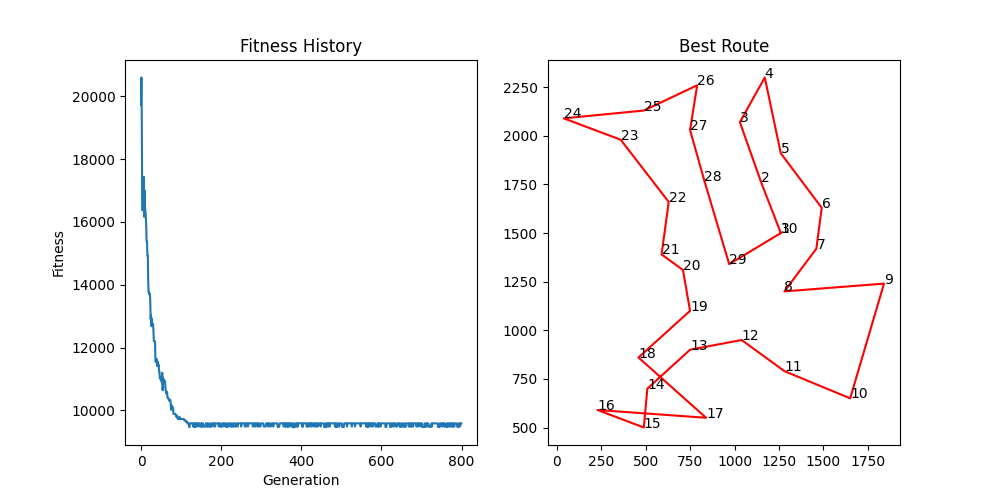
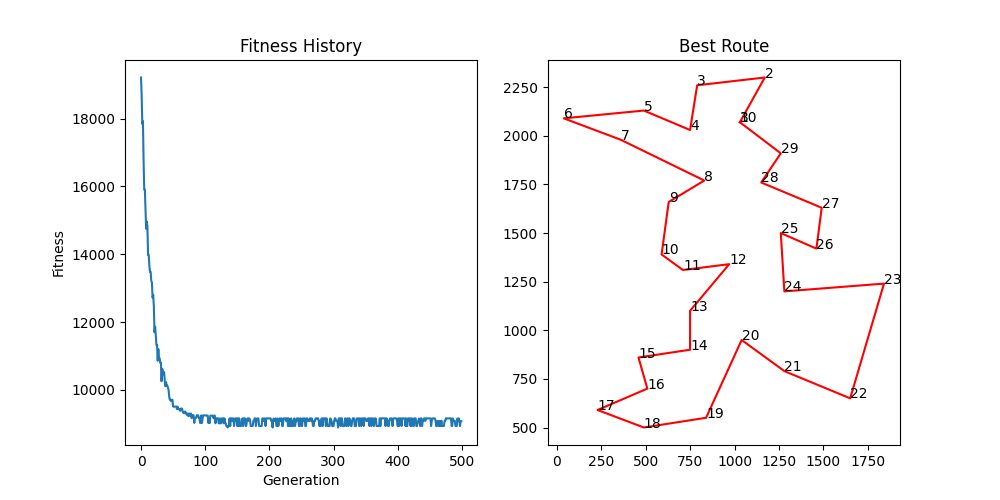
Final Commit

diff --git a/tsp.py b/tsp.py
@@ -26,18 +26,32 @@ def crossover(parent1, parent2, method):
     if method == 1:
         child1 = parent1[:crossover_point] + [city for city in parent2 if city not in parent1[:crossover_point]]
         child2 = parent2[:crossover_point] + [city for city in parent1 if city not in parent2[:crossover_point]]
-    else:
-        # Alternative crossover method
-        crossover_point = len(parent1) // 2
-        child1 = parent1[:crossover_point] + [city for city in parent2 if city not in parent1[:crossover_point]]
-        child2 = parent2[:crossover_point] + [city for city in parent1 if city not in parent2[:crossover_point]]
+        
+        # Ensure the route is cyclic
+        child1.append(child1[0])
+        child2.append(child2[0])
     
-    # Ensure the route is cyclic
-    child1.append(child1[0])
-    child2.append(child2[0])
-    
-    return child1, child2
+    elif method == 2:
+        # Two-point crossover
+        crossover_point2 = random.randint(1, len(parent1) - 1)
+        while crossover_point == crossover_point2:
+            crossover_point2 = random.randint(1, len(parent1) - 1)
 
+        if crossover_point > crossover_point2:
+            crossover_point, crossover_point2 = crossover_point2, crossover_point
+
+        child1 = parent1[:crossover_point] + parent2[crossover_point:crossover_point2] + parent1[crossover_point2:]
+        child2 = parent2[:crossover_point] + parent1[crossover_point:crossover_point2] + parent2[crossover_point2:]
+
+        # Ensure unique cities
+        child1 = list(dict.fromkeys(child1))
+        child2 = list(dict.fromkeys(child2))
+        
+        # Ensure the route is cyclic
+        child1.append(child1[0])
+        child2.append(child2[0])
+
+    return child1, child2
 # Perform mutation on a chromosome based on the specified method
 def mutate(route, method):
     mutation_point1 = random.randint(0, len(route) - 1)
@@ -60,7 +74,6 @@ def selection(population, fitness_values, tournament_size, method):
         selected_fitness_values = [fitness_values[i] for i in selected_indices]
         return selected_individuals[selected_fitness_values.index(min(selected_fitness_values))]
     else:
-        # Alternative selection method
         sorted_indices = sorted(range(len(fitness_values)), key=lambda k: fitness_values[k])
         return population[sorted_indices[0]]
     
@@ -134,17 +147,14 @@ crossover_rate = 0.5
 mutation_rate = 0.5
 tournament_size = 5
 
-# 1: PMX, 2: Alternative crossover
-c_method = 2
+# PMX, 2PCX
+c_method = 1
 
-# 1: Swap, 2: Alternative mutation
-m_method = 2
+# Swap, Inverse
+m_method = 1
 
-# 1: Tournament selection, 2: Alternative selection
-s_method = 2
-
-
-
+# Tournament selection, elitism
+s_method = 1
 
 best_route, best_fitness = genetic_algorithm(problem_file, population_size, generations, crossover_rate, mutation_rate, tournament_size, s_method, c_method, m_method)
 
